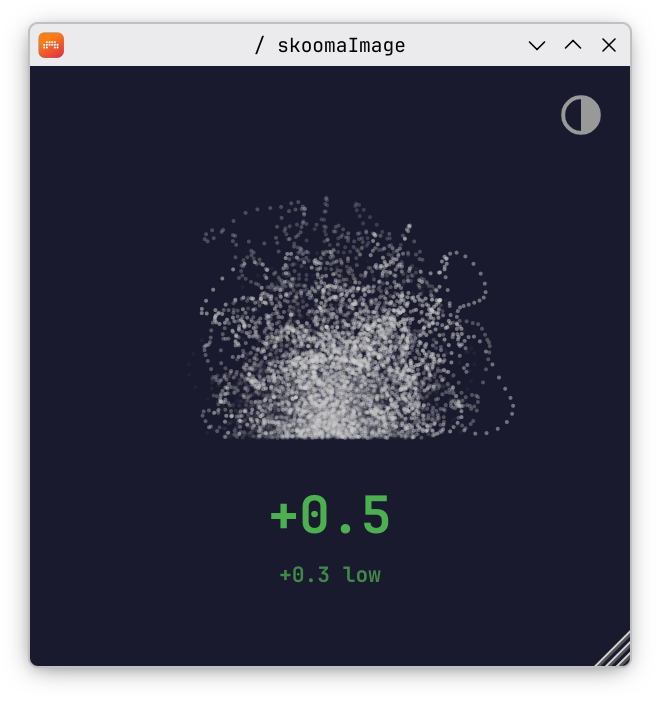
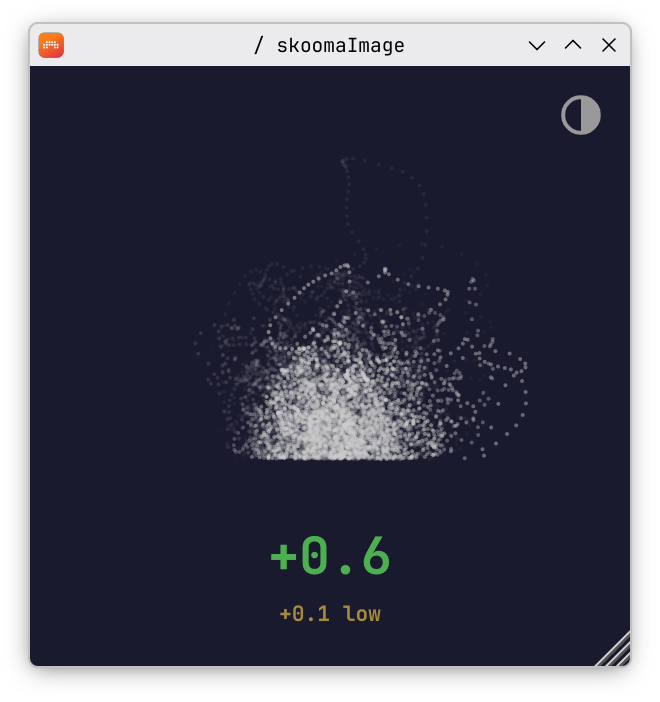
1.0.1: hide idle readout, align dot-origin with siblings
Main correlation readout is gated on a hasSignal energy check so it
no longer shows "+0.0" during silence (the "low" peak-hold still
persists, mirroring Tuner/Loud's idle behaviour). Vectorscope cy
moves to 0.655·w so the half-disc centre lines up with Tuner/Loud's
endpoint-label Y, keeping the visual centre consistent across the
measurement family.

diff --git a/Source/PluginEditor.cpp b/Source/PluginEditor.cpp
@@ -94,8 +94,11 @@ void SkoomaImageEditor::paint(juce::Graphics& g)
 
     // Upper-half-circle frame. Signal source (dot) sits on the diameter's
     // centre; hard-L is 9 o'clock, hard-R is 3 o'clock, mono is 12 o'clock.
+    // cy is aligned with the Y of the endpoint labels in Tuner/Loud
+    // (cy_sib + 0.65·r_sib·sin 135° ≈ 0.655·w) so the meter "centres" read
+    // the same across the family.
     float cx = w * 0.5f;
-    float cy = w * 0.62f;
+    float cy = w * 0.655f;
     float radius = w * 0.42f;
 
     // Half-circle frame. Flip `#if 0` → `#if 1` to bring it back.
@@ -156,23 +159,30 @@ void SkoomaImageEditor::paint(juce::Graphics& g)
         return juce::Colour(0xff4caf50);
     };
 
-    const float valH = 34.0f * scale;
-    const float valY = cy + 20.0f * scale;
-    g.setFont(monoFont.withHeight(valH));
-    g.setColour(corrColourFor(corrSmoothed));
-    g.drawText(juce::String::formatted("%+.1f", corrSmoothed),
-               juce::Rectangle<float>(0, valY, w, valH * 1.1f),
-               juce::Justification::centred, false);
+    // Unified text band across Tuner/Loud/Image: main at 0.76w, secondary at 0.89w.
+    const float mainH  = 34.0f * scale;
+    const float mainY  = 0.76f * w;
+    const float labelH = 14.0f * scale;
+    const float labelY = 0.89f * w;
+
+    // Main readout hidden while input is silent — matches Tuner (no freq) /
+    // Loud (−∞ LUFS). The "low" peak-hold below persists after playback.
+    if (processor.hasSignal.load(std::memory_order_acquire))
+    {
+        g.setFont(monoFont.withHeight(mainH));
+        g.setColour(corrColourFor(corrSmoothed));
+        g.drawText(juce::String::formatted("%+.1f", corrSmoothed),
+                   juce::Rectangle<float>(0, mainY, w, mainH),
+                   juce::Justification::centred, false);
+    }
 
     // Peak-hold "low" secondary readout — hidden until real data arrives.
     if (minCorrSmoothed <= 1.0f)
     {
-        const float labH = 14.0f * scale;
-        const float labY = valY + valH * 1.15f;
-        g.setFont(monoFont.withHeight(labH));
+        g.setFont(monoFont.withHeight(labelH));
         g.setColour(corrColourFor(minCorrSmoothed).withAlpha(0.75f));
         g.drawText(juce::String::formatted("%+.1f low", minCorrSmoothed),
-                   juce::Rectangle<float>(0, labY, w, labH * 1.3f),
+                   juce::Rectangle<float>(0, labelY, w, labelH),
                    juce::Justification::centred, false);
     }
 

diff --git a/Source/PluginProcessor.cpp b/Source/PluginProcessor.cpp
@@ -31,6 +31,7 @@ void SkoomaImageProcessor::prepareToPlay(double sampleRate, int /*samplesPerBloc
     corrLL = corrRR = corrLR = 0.0;
     correlation.store(0.0f, std::memory_order_release);
     minCorrelation.store(2.0f, std::memory_order_release);
+    hasSignal.store(false, std::memory_order_release);
     wasPlaying = false;
 }
 
@@ -84,8 +85,11 @@ void SkoomaImageProcessor::processBlock(juce::AudioBuffer<float>& buffer, juce::
     correlation.store(cClamped, std::memory_order_release);
 
     // Peak-hold the lowest correlation seen since transport start. Gate on
-    // there being actual signal energy (avoid latching on silence/DC).
-    if (ll > 1.0e-6 && rr > 1.0e-6)
+    // there being actual signal energy (avoid latching on silence/DC). The
+    // same energy gate also drives the editor's "is there live audio?" check.
+    const bool live = (ll > 1.0e-6 && rr > 1.0e-6);
+    hasSignal.store(live, std::memory_order_release);
+    if (live)
     {
         const float prevMin = minCorrelation.load(std::memory_order_relaxed);
         if (cClamped < prevMin)

diff --git a/Source/PluginProcessor.h b/Source/PluginProcessor.h
@@ -48,6 +48,7 @@ public:
 
     std::atomic<float> correlation{0.0f};
     std::atomic<float> minCorrelation{2.0f};   // 2.0 == "no data since last transport start"
+    std::atomic<bool>  hasSignal{false};       // true while smoothed L²+R² is above silence
 
 private:
     double corrLL{0.0}, corrRR{0.0}, corrLR{0.0};

diff --git a/README.md b/README.md
@@ -5,7 +5,7 @@
 <td><img src="screenshots/light-theme.png" width="200"></td>
 </tr></table>
 
-Stereo image meter. Half-circle vectorscope: hard-L dots fly left, hard-R right, mono-centre straight up.
+Stereo image meter with Pearson correlation readout and worst-case peak-hold per playthrough. Half-circle vectorscope: hard-L dots fly left, hard-R right, mono-centre straight up.
 
 Part of a series of small, minimal VST3 plugins:
 - [skoomaTuner](https://github.com/skoomabwoy/skoomaTuner) (tuner)
